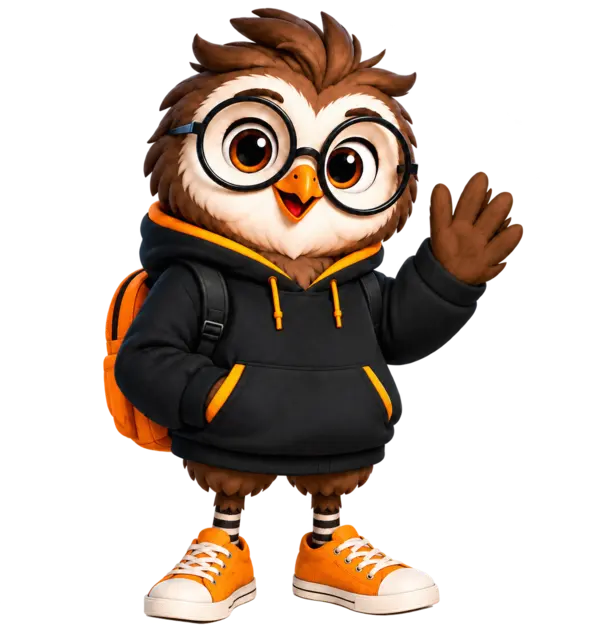
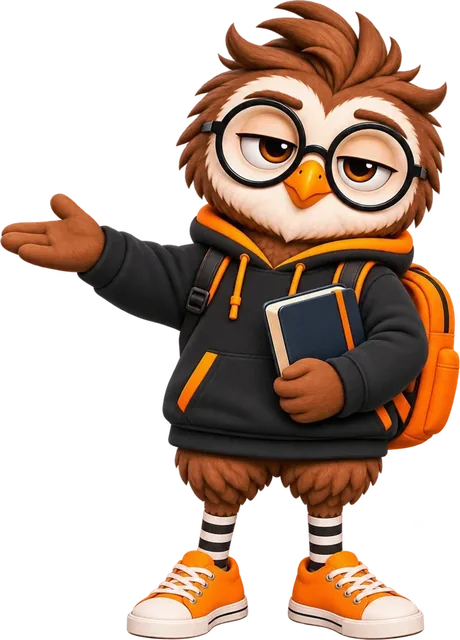
fix(ui): um Apronso diferente em cada separador e nenhum frame com movimento
- Expressões do repositório (marketing/apronso), todas com o mesmo cabelo:
  Aprender a apontar, Treinar nos livros, Ranking a celebrar, Progresso ao
  telemóvel; pensativo passa a «encostado».
- Título com a mesma letra nos quatro separadores (espaçamento e cor do
  Aprender): antes encolhia/esticava ao trocar.
- Ranking importado diretamente: o primeiro toque mostrava um frame vazio.
- As 4 expressões do topo são pré-carregadas em tempo ocioso.
- Barra de baixo sem «encolher» ao tocar.
- Sem repetições: cartão de instalação com o Apronso ao telemóvel; passo 3
  da visita guiada com os livros.
- tab-heading-stability passa a verificar letra do título, 4 expressões
  diferentes e frame a frame depois de cada toque.

Claude-Session: https://claude.ai/code/session_01P8fF8zWgDL4BPV2GGBbXKz

diff --git a/app/globals.css b/app/globals.css
@@ -470,7 +470,7 @@ button{touch-action:manipulation}
 .studentTop{display:flex;align-items:center;justify-content:space-between;gap:18px;margin-bottom:34px}
 .studentTopIdentity{display:flex;align-items:center;gap:14px;min-width:0}.subjectSwitcher{display:flex;align-items:center;gap:8px;min-height:42px;max-width:260px;padding:7px 11px;border:1px solid #e5e8ef;border-radius:12px;background:#fff;color:#17203a;text-align:left}.subjectSwitcher span{display:grid;place-items:center;width:27px;height:27px;flex:0 0 27px;border-radius:8px;background:#ffe7ba;color:#8d4b00;font-weight:950}.subjectSwitcher b{overflow:hidden;text-overflow:ellipsis;white-space:nowrap;font-size:13px}.subjectSwitcher i{font-style:normal;color:#8a92a2}.dark .subjectSwitcher{background:#101d3d;color:#fff;border-color:#ffffff18}.dark .subjectSwitcher span{background:#ffb13b;color:#08132e}.dark .subjectSwitcher i{color:#aeb8ce}
 .studentTopActions{display:flex;align-items:center;gap:8px}.studentTopActions>button,.studentMenu>summary{border:1px solid #e5e8ef;background:#fff;color:#17203a;border-radius:999px;min-width:52px;height:46px;padding:0 13px;display:flex;align-items:center;justify-content:center;font-size:15px;list-style:none}.dark .studentTopActions>button,.dark .studentMenu>summary{background:#101d3d;color:#fff;border-color:#ffffff18}.studentMenu{position:relative}.studentMenu>summary::-webkit-details-marker{display:none}.studentMenu>div{position:absolute;z-index:8;right:0;top:54px;width:min(280px,calc(100vw - 32px));padding:8px;background:#fff;border:1px solid #e5e8ef;border-radius:16px;box-shadow:0 18px 45px #10182f2a}.studentMenu div button{display:block;width:100%;min-height:46px;border:0;background:transparent;text-align:left;padding:10px 12px;border-radius:10px;color:#1c2740}.studentMenu div button:hover{background:#f5f3ff}
-.studentNav{position:fixed;z-index:20;left:50%;bottom:0;transform:translateX(-50%);width:min(740px,100%);height:76px;padding:8px max(8px,env(safe-area-inset-right)) max(8px,env(safe-area-inset-bottom)) max(8px,env(safe-area-inset-left));display:grid;grid-template-columns:repeat(4,minmax(0,1fr));gap:2px;background:rgba(255,255,255,.94);border-top:1px solid #e6e8ef;box-shadow:0 -10px 35px #10182f12;backdrop-filter:blur(18px)}.studentNav button{min-width:0;border:0;background:transparent;color:#737b8f;border-radius:12px;min-height:56px;padding:5px 2px;display:grid;place-items:center;align-content:center;gap:2px}.studentNav button>span{font-size:21px;line-height:1}.studentNav button>b{font-size:12px;line-height:1.15;white-space:nowrap}.studentNav button.active{color:#6548e8;background:#f2efff}.studentNav button:active{transform:scale(.97)}
+.studentNav{position:fixed;z-index:20;left:50%;bottom:0;transform:translateX(-50%);width:min(740px,100%);height:76px;padding:8px max(8px,env(safe-area-inset-right)) max(8px,env(safe-area-inset-bottom)) max(8px,env(safe-area-inset-left));display:grid;grid-template-columns:repeat(4,minmax(0,1fr));gap:2px;background:rgba(255,255,255,.94);border-top:1px solid #e6e8ef;box-shadow:0 -10px 35px #10182f12;backdrop-filter:blur(18px)}.studentNav button{min-width:0;border:0;background:transparent;color:#737b8f;border-radius:12px;min-height:56px;padding:5px 2px;display:grid;place-items:center;align-content:center;gap:2px}.studentNav button>span{font-size:21px;line-height:1}.studentNav button>b{font-size:12px;line-height:1.15;white-space:nowrap}.studentNav button.active{color:#6548e8;background:#f2efff}
 .divisionBadge b{font-size:14px}.divisionBadge small{font-size:12px}.demoRankingWarning{padding:13px 15px}.demoRankingWarning b{font-size:12px}.demoRankingWarning span{font-size:13px}.rankingTabs{gap:8px}.rankingTabs button{min-height:44px;padding:9px 14px;font-size:13px}.leagueStatus{padding:18px;gap:12px}.leagueStatus small{font-size:12px}.leagueStatus h3{font-size:18px}.leagueStatus p{font-size:14px}.leagueStatus>div:nth-child(2) b{font-size:22px}.leagueStatus>div:nth-child(2) span,.leagueStatus footer span{font-size:12px}.rankingLocked b{font-size:15px}.rankingLocked span{font-size:14px}.rankingLocked small{font-size:12px}.leaderboardHead{padding:15px 16px}.leaderboardHead small{font-size:12px}.leaderboardHead h3{font-size:18px}.leaderboardHead>span{font-size:12px}.leaderboardRows>div{grid-template-columns:34px 34px minmax(0,1fr) auto;gap:9px;min-height:58px;padding:10px 14px}.rankPos{font-size:14px}.rankAvatar{font-size:18px}.leaderboardRows strong{font-size:15px}.leaderboardRows small{font-size:12px}.leaderboardRows em{font-size:14px}.aroundYouNote{font-size:12px;padding:10px 14px}.xpRules,.divisionLadder,.rankingProfile{padding:18px}.xpRules>div:first-child small,.divisionLadder>small,.rankingProfile>div:first-child small{font-size:12px}.xpRules h3,.rankingProfile h3{font-size:19px}.xpRuleGrid>div{padding:12px}.xpRuleGrid b{font-size:16px}.xpRuleGrid span{font-size:14px}.xpRuleGrid small{font-size:12px}.lastRankXp b{font-size:14px}.lastRankXp span{font-size:12px}.divisionLadder span{font-size:22px}.divisionLadder b{font-size:12px}.divisionLadder p,.rankingProfile>div:first-child p{font-size:13px}.rankingProfile>label:not(.rankConsent){font-size:13px}.rankingProfile input,.rankingProfile select{min-height:48px;font-size:16px}.rankConsent{font-size:13px;min-height:44px;align-items:center}.privacyRankNote{font-size:12px}
 .learnHome{background:radial-gradient(circle at 50% -15%,#253565 0,#0b1733 42%,#08132e 75%)}.learnHome .wrap{max-width:760px}.learnHome .studentTop{margin-bottom:18px}.learnIntro{margin:12px 0 18px}.learnIntro p{margin:0;color:#93a1bf;font-size:15px}.learnIntro h1{margin:4px 0;font-size:clamp(30px,7vw,42px);letter-spacing:-1.5px}
 .adaptivePath{max-width:680px;margin:0 auto}.pathNode{display:grid;grid-template-columns:42px minmax(0,1fr);gap:14px;align-items:center}.pathNode>span{width:42px;height:42px;border-radius:50%;display:grid;place-items:center;font-weight:950;background:#192745;border:2px solid #41506e;color:#a7b1c5}.pathNode small,.pathNode b,.pathNode p{display:block}.pathNode small{font-size:12px;font-weight:900;letter-spacing:.06em;color:#8492af}.pathNode b{font-size:16px}.pathNode p{font-size:14px;color:#93a0bb;margin:3px 0}.pathLine{width:2px;height:16px;margin:3px 0 3px 20px;background:#34415d}.pathLine.active{background:linear-gradient(#58c99a,#7153f5)}.pathNode.done>span,.pathNode.current.complete>span{background:#e8fbf2;border-color:#52c58f;color:#21845c}.pathNode.current>span{background:#7658fa;border-color:#9b87ff;color:#fff;box-shadow:0 0 0 7px #7658fa22}.pathNode.current article{position:relative;padding:20px 20px 18px;border-radius:22px;background:#fff;color:#18213a;box-shadow:0 18px 48px #0004}.pathNode.current article small{color:#6b52dc}.pathNode.current h2{font-size:clamp(24px,6vw,32px);margin:4px 0}.pathNode.current article>p{font-size:16px;color:#68728a}.pathNode.current em{display:block;font-style:normal;color:#6e778b;font-size:13px}.pathNode.current button{width:100%;min-height:54px;margin-top:15px;border:0;border-radius:14px;background:#6d4df1;color:#fff;font-weight:900;font-size:17px}.pathNode.current details{margin-top:10px}.pathNode.current summary,.focusDisclosure>summary,.resultDetails>summary,.progressDetails>summary,.progressHelp>summary{cursor:pointer;font-size:13px;font-weight:800;color:#6953d4;min-height:44px;display:flex;align-items:center}.pathNode.next{opacity:.78}
@@ -715,7 +715,7 @@ body{background:var(--app-canvas);color:var(--app-ink)}
 .studentMenu>div{border-color:var(--app-border);box-shadow:var(--app-shadow-md)}
 
 .studentNav{width:min(760px,100%);height:78px;border-color:var(--app-border);box-shadow:0 -12px 34px rgba(16,43,66,.09)}
-.studentNav button{color:#7a8793;border-radius:14px;transition:background .18s ease,color .18s ease,transform .12s ease}
+.studentNav button{color:#7a8793;border-radius:14px;transition:background .18s ease,color .18s ease}
 .studentNav button>span.studentNavIcon{width:24px;height:24px;display:grid;place-items:center}
 .studentNavIcon svg{width:23px;height:23px;display:block}
 .studentNav button>b{font-size:12px;font-weight:850;letter-spacing:.01em}

diff --git a/app/apronso-parity.css b/app/apronso-parity.css
@@ -290,8 +290,8 @@
     right:0;
     width:220px;
     /* do topo do título ao fundo da caixa (24 px de margem por baixo dela);
-       a imagem tem ~2 % de transparência por baixo dos pés. */
-    height:calc(100% - 24px + 1.6%);
+       as expressões do repositório não têm margem transparente. */
+    height:calc(100% - 24px);
     max-width:none;
     margin:0;
     padding:0;
@@ -305,7 +305,9 @@ html body .trainHub .trainIntro::after{background-image:url('/mascot/apronso-boo
 /* ===== Topo idêntico nos quatro separadores (pedido do product owner, 2026-11-21) =====
    Aprender, Treinar, Ranking e Progresso: etiqueta, título e Apronso nas mesmas
    posições e tamanhos, sem animação no topo — mudar de separador não pode dar
-   nenhuma sensação de movimento. Medido por tests/browser/tab-heading-stability. */
+   nenhuma sensação de movimento. O título usa a mesma letra nos quatro (o
+   espaçamento de Aprender): letra diferente ao trocar também parece movimento.
+   Medido por tests/browser/tab-heading-stability. */
 html body .mobileHeadingApronso,
 html body .rankingHeadingApronso{animation:none!important;transform:none!important}
 @media(max-width:760px){
@@ -320,7 +322,7 @@ html body .rankingHeadingApronso{animation:none!important;transform:none!importa
   html body .learnHome>.studentSurface>.learnIntro .mobileMainTitle>h1,
   html body .trainHub>.panel>.sectionIntro .mobileMainTitle>h1,
   html body .progressPage>.panel>.sectionIntro .mobileMainTitle>h1,
-  html body .rankingDesktopShell>.panel>.rankingHero>.sectionIntro .rankingTitle>h1{margin:5px 0 0!important;padding:0!important;font-size:clamp(23px,6vw,29px)!important;line-height:1.1!important;overflow-wrap:normal!important}
+  html body .rankingDesktopShell>.panel>.rankingHero>.sectionIntro .rankingTitle>h1{margin:5px 0 0!important;padding:0!important;font-size:clamp(23px,6vw,29px)!important;line-height:1.1!important;overflow-wrap:normal!important;font-weight:700!important;letter-spacing:-1.4px!important;color:var(--app-navy)!important}
   html body .trainHub>.panel>.sectionIntro .mobileHeadingApronso,
   html body .progressPage>.panel>.sectionIntro .mobileHeadingApronso,
   html body .rankingDesktopShell>.panel>.rankingHero>.sectionIntro .rankingTitle .rankingHeadingApronso{display:block!important;position:absolute!important;right:0!important;bottom:auto!important;top:var(--tab-apronso-top)!important;left:auto!important;margin:0!important;width:clamp(68px,21vw,90px)!important;height:clamp(76px,24vw,100px)!important;object-fit:contain!important;object-position:center bottom!important;pointer-events:none!important}
@@ -344,7 +346,7 @@ html body .rankingHeadingApronso{animation:none!important;transform:none!importa
   html body .learnHome>.studentSurface>.learnIntro .mobileMainTitle>h1,
   html body .trainHub>.panel>.sectionIntro .mobileMainTitle>h1,
   html body .progressPage>.panel>.sectionIntro .mobileMainTitle>h1,
-  html body .rankingDesktopShell>.panel>.rankingHero>.sectionIntro .rankingTitle>h1{margin:4px 0 0!important;font-size:42px!important;line-height:1.5!important}
+  html body .rankingDesktopShell>.panel>.rankingHero>.sectionIntro .rankingTitle>h1{margin:4px 0 0!important;font-size:42px!important;line-height:1.5!important;font-weight:700!important;letter-spacing:-1.4px!important;color:var(--app-navy)!important}
   html body .progressPage>.panel>.progressIntro{position:relative!important;box-sizing:border-box!important;width:auto!important;max-width:none!important;min-height:138px!important;margin-top:var(--progress-intro-mt, 0px)!important;padding:0 138px 0 0!important}
   html body .progressPage>.panel>.progressIntro::after{content:""!important;display:block!important;position:absolute!important;right:6px!important;top:-2px!important;bottom:auto!important;width:126px!important;height:142px!important;background:url('/mascot/apronso-progress.webp') center bottom/contain no-repeat!important;pointer-events:none!important}
   html body .learnHome>.studentSurface>.learnIntro::after,

diff --git a/app/clientApp.js b/app/clientApp.js
@@ -20,6 +20,9 @@ import StudyModeHub from "./components/StudyModeHub";
 import PausedActivityEyebrow from "./components/PausedActivityEyebrow";
 import {Welcome} from "./components/Welcome";
 import ScoreLossExplanation from "./components/ScoreLossExplanation";
+// Ranking importado diretamente (não à parte): carregado à parte, o primeiro
+// toque mostrava um instante o ecrã vazio antes do topo — parecia movimento.
+import Ranking from "./components/RankingScreen";
 import {miniExamReviewItemLabel,CONTENT_REPORT_SAVED_MESSAGE} from "./lib/scoreReviewCopy";
 const ReviewerDashboard=dynamic(()=>import("./components/ReviewerDashboard").then(module=>module.ReviewerDashboard),{ssr:false});
 const AccountCloud=dynamic(()=>import("./components/AccountCloud").then(module=>module.AccountCloud),{ssr:false});
@@ -36,7 +39,6 @@ const PortuguesePassageMiniExamRoute=dynamic(()=>import("./components/Portuguese
 const PhysicsChemistrySubject=dynamic(()=>import("./components/PhysicsChemistrySubject"),{ssr:false});
 const PhysicsChemistryExam=dynamic(()=>import("./components/PhysicsChemistryExam"),{ssr:false});
 const PhysicsChemistryMiniExam=dynamic(()=>import("./components/PhysicsChemistryMiniExam"),{ssr:false});
-const Ranking=dynamic(()=>import("./components/SecondaryScreens").then(module=>module.Ranking),{ssr:false});
 const IdentityLab=dynamic(()=>import("./components/SecondaryScreens").then(module=>module.IdentityLab),{ssr:false});
 const Parent=dynamic(()=>import("./components/SecondaryScreens").then(module=>module.Parent),{ssr:false});
 const StudentProfile=dynamic(()=>import("./components/SetupScreens").then(module=>module.StudentProfile),{ssr:false});
@@ -305,6 +307,16 @@ export default function App(){
     update();
     window.addEventListener(AUTH_CHANGED_EVENT,update);
     return ()=>window.removeEventListener(AUTH_CHANGED_EVENT,update);
+  },[hydrated]);
+
+  // As quatro expressões do topo (Aprender, Treinar, Ranking, Progresso) ficam
+  // descarregadas e descodificadas antes da primeira troca de separador: sem isto,
+  // a imagem aparece um instante depois do texto e parece movimento.
+  useEffect(()=>{
+    if(!hydrated||typeof window==="undefined")return;
+    const warm=()=>{for(const pose of ["welcome","books","celebrate","progress"]){const img=new window.Image();img.decoding="async";img.src=`/mascot/apronso-${pose}.webp`;img.decode?.().catch(()=>{})}};
+    const idle=window.requestIdleCallback?window.requestIdleCallback(warm,{timeout:1500}):window.setTimeout(warm,300);
+    return ()=>{window.cancelIdleCallback&&window.requestIdleCallback?window.cancelIdleCallback(idle):window.clearTimeout(idle)};
   },[hydrated]);
 
   useEffect(()=>{
@@ -837,7 +849,7 @@ const PortugueseSubject=dynamic(()=>import("./components/PortugueseSubject"),{ss
 const PRE_DIAGNOSTIC_TOUR_STEPS=[
   {mascot:"welcome",eyebrow:"PASSO 1 DE 4",title:"Conhece o Apronso",text:<>Sou o teu parceiro de estudo na <BrandName/>. Vou ajudar-te a perceber o que estudar e acompanhar-te até aos exames.</>},
   {mascot:"thinking",eyebrow:"PASSO 2 DE 4",title:"Primeiro, quero conhecer-te",text:"O diagnóstico não é uma nota. Serve para encontrar um bom ponto de partida em cada disciplina."},
-  {mascot:"pointing",eyebrow:"PASSO 3 DE 4",title:"Missões curtas e focadas",text:"Na Home vais encontrar uma Missão diária escolhida a partir do teu percurso e da evidência que fores criando."},
+  {mascot:"books",eyebrow:"PASSO 3 DE 4",title:"Missões curtas e focadas",text:"Na Home vais encontrar uma Missão diária escolhida a partir do teu percurso e da evidência que fores criando."},
   {mascot:"progress",eyebrow:"PASSO 4 DE 4",title:"Treinar, fazer exames e acompanhar a evolução",text:["Em Praticar escolhes matéria e submatéria.","Em Exames fazes Mini-exames e, quando disponível, o Exame Completo.","Em Progresso acompanhas a evolução de cada disciplina."]}
 ];
 

diff --git a/app/components/RankingScreen.js b/app/components/RankingScreen.js
@@ -75,7 +75,7 @@ export default function Ranking({s,setS,go}){
 
   return <Shell className="rankingDesktopShell"><StudentTop s={s} go={go}/>
     <div className="rankingHero">
-      <div className="sectionIntro"><div className="rankingTitle"><p className="eyebrow">🏆 COMPETIÇÃO SEMANAL</p><h1>Treina. Ganha XP. Sobe.</h1><Apronso className="rankingHeadingApronso" pose="welcome" alt=""/></div>
+      <div className="sectionIntro"><div className="rankingTitle"><p className="eyebrow">🏆 COMPETIÇÃO SEMANAL</p><h1>Treina. Ganha XP. Sobe.</h1><Apronso className="rankingHeadingApronso" pose="celebrate" alt=""/></div>
         <p className="muted">O ranking compara <b>atividade de estudo</b>, nunca Domínio, Certeza, Índice de Preparação ou notas.</p></div>
       {LEAGUES_LIVE
         ?<div className="divisionBadge" aria-label="Divisão e XP total desta semana"><span aria-hidden="true">{globalSummary.division.icon}</span><b>{globalSummary.division.label}</b><small>{globalSummary.weekXp} XP esta semana</small>{subjectId&&<small>{summary.weekXp} XP · {subjectLabel}</small>}</div>

diff --git a/app/components/InstallAppPrompt.js b/app/components/InstallAppPrompt.js
@@ -35,7 +35,8 @@ export default function InstallAppPrompt({eligible}){
     window.__approvaInstallPrompt=null;
   };
   return <section className="installAppPrompt" aria-label="Instalar a APProva+">
-    <Apronso pose="pointing" className="installApronso" alt=""/>
+    {/* Apronso ao telemóvel: o cabeçalho do Aprender já usa o Apronso a apontar. */}
+    <Apronso pose="progress" className="installApronso" alt=""/>
     <div>
       <b>{copy.title}</b>
       {copy.steps.length>1?<ol>{copy.steps.map(step=><li key={step}>{step}</li>)}</ol>:<p>{copy.steps[0]}</p>}
